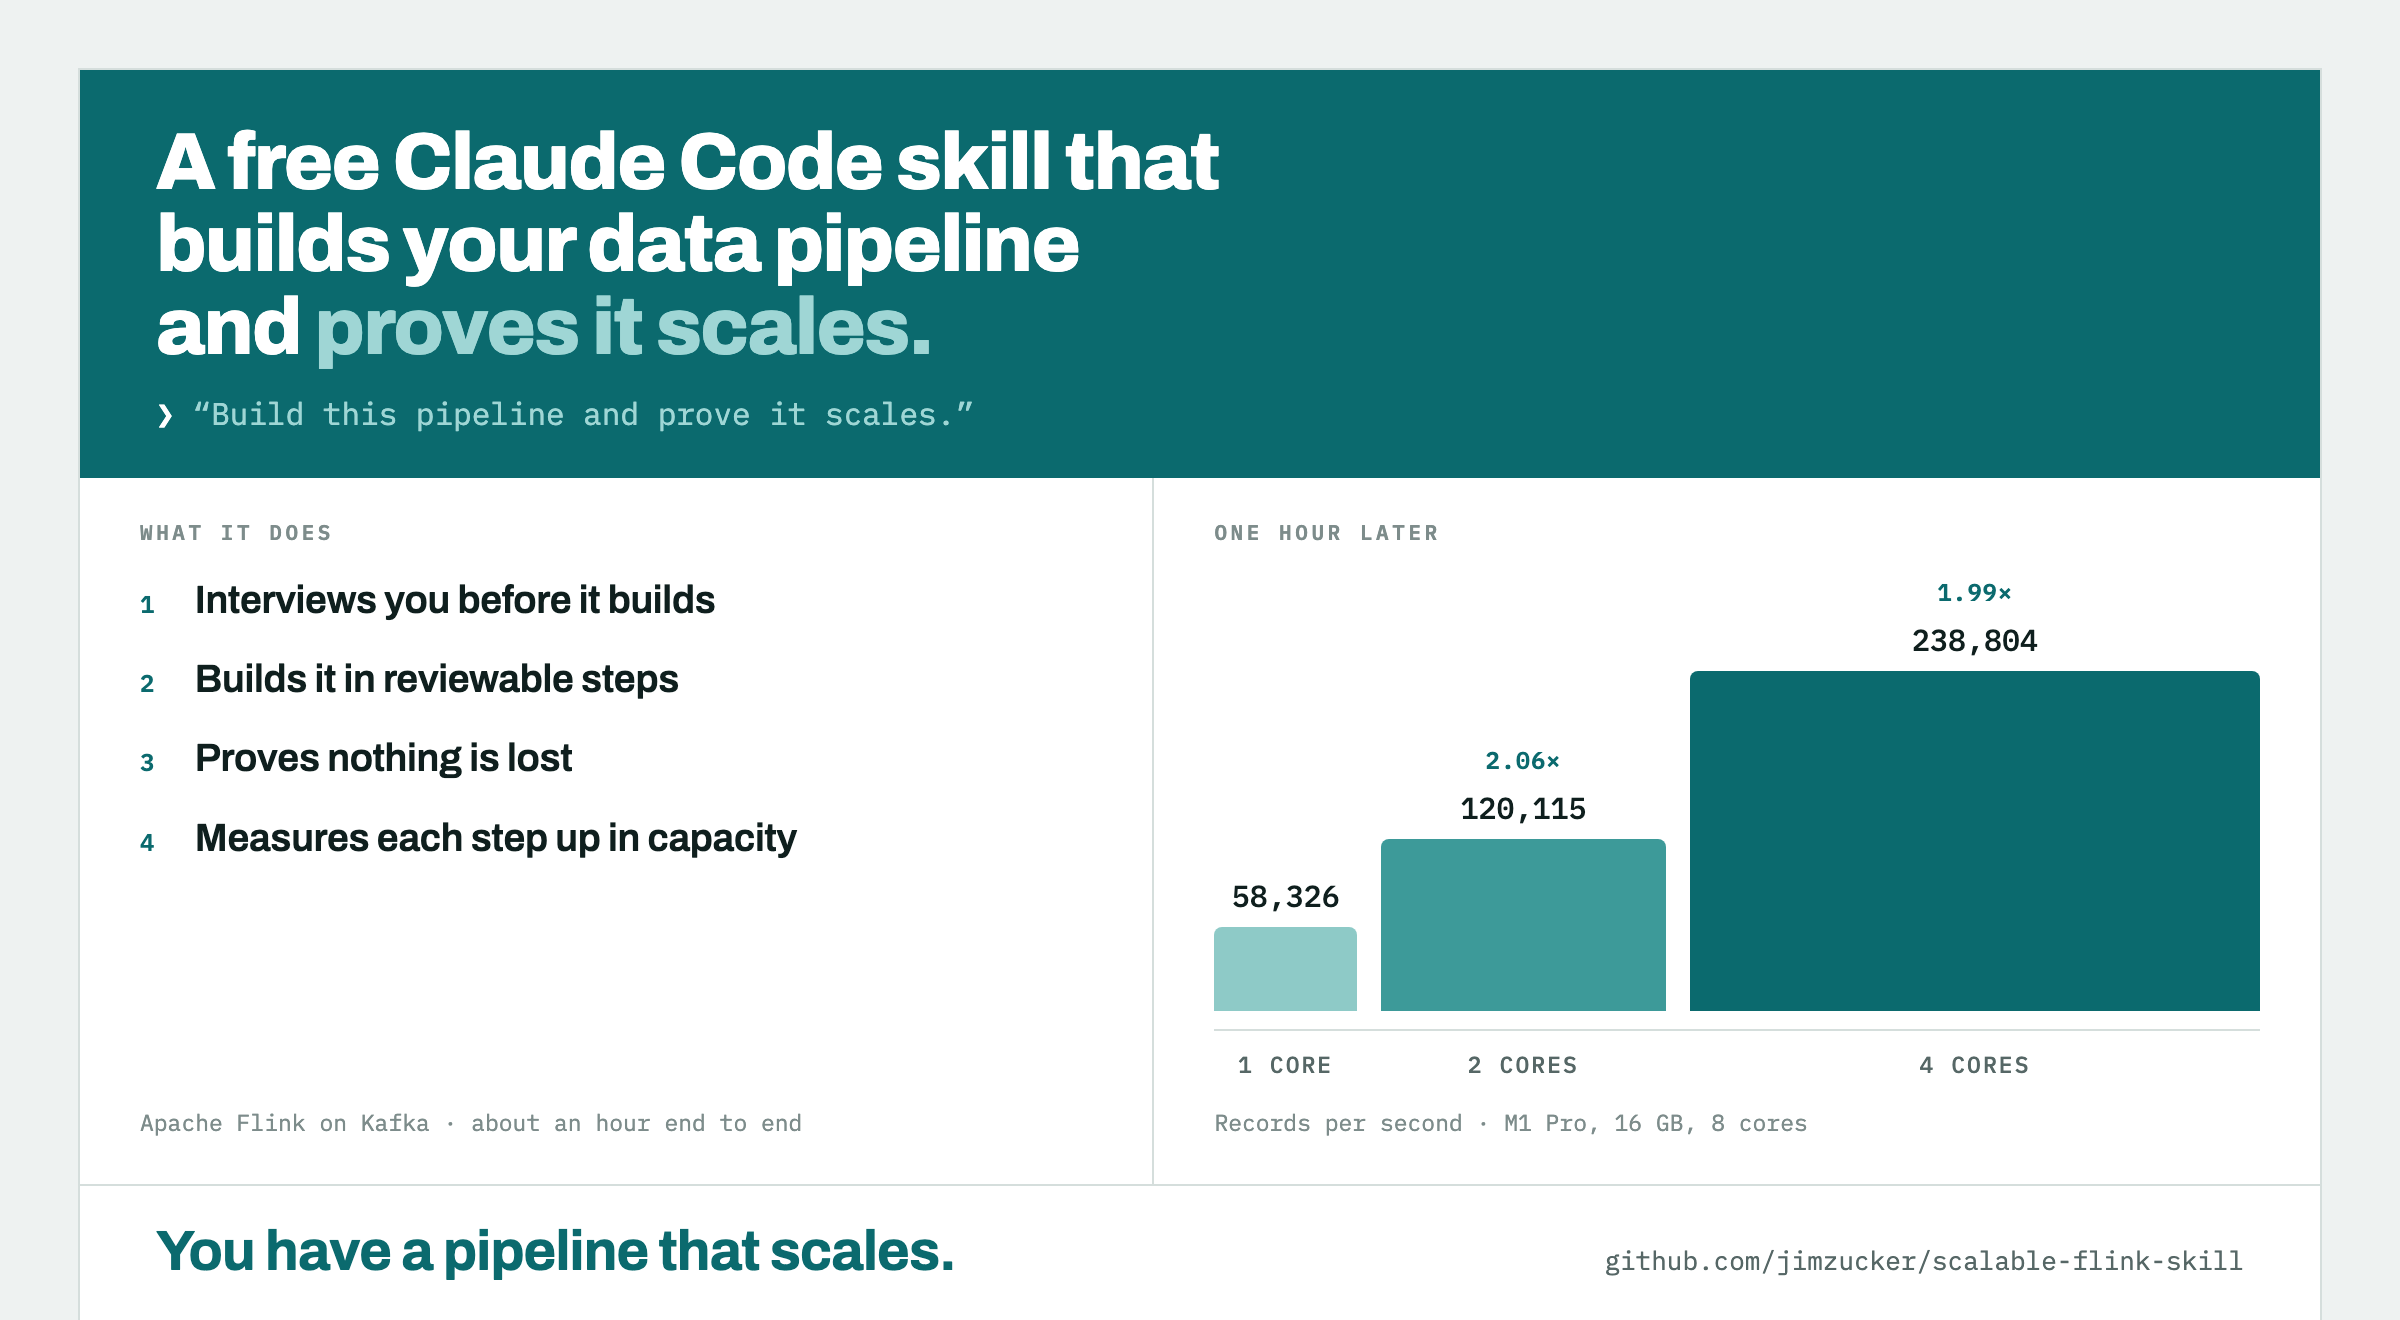
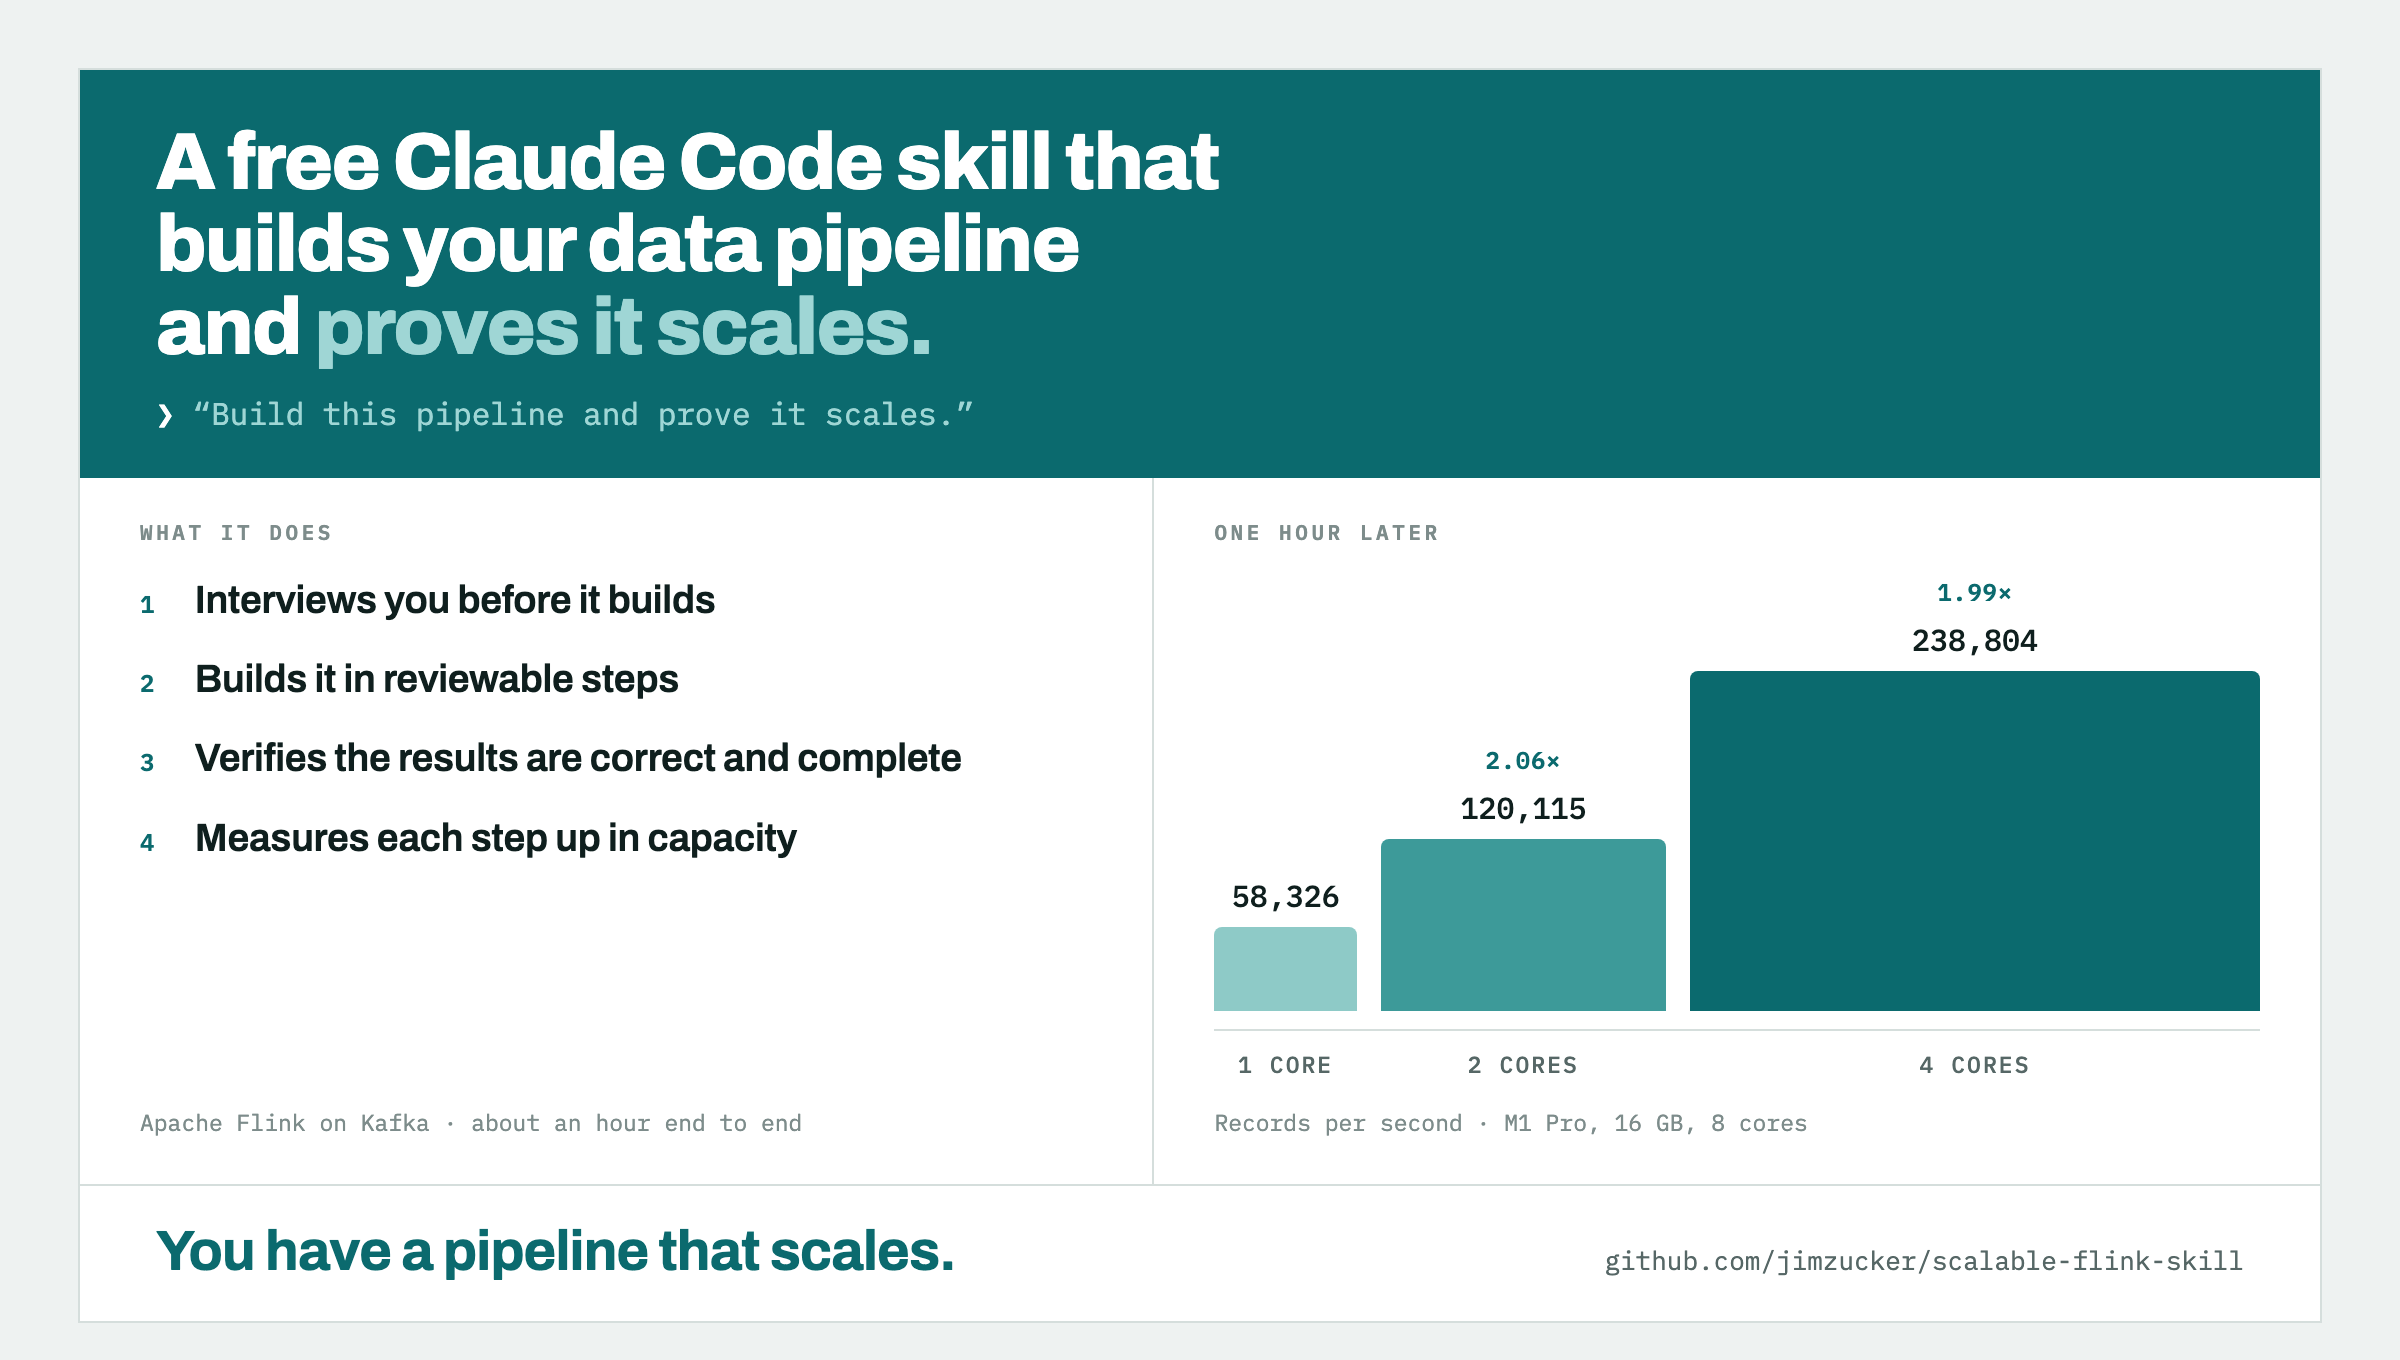
card: step 3 says what it checks
Matches flink-training's copy.

diff --git a/docs/card.html b/docs/card.html
@@ -217,7 +217,7 @@
       <div class="steps">
         <div class="step"><span class="n">1</span><span class="t">Interviews you before it builds</span></div>
         <div class="step"><span class="n">2</span><span class="t">Builds it in reviewable steps</span></div>
-        <div class="step"><span class="n">3</span><span class="t">Proves nothing is lost</span></div>
+        <div class="step"><span class="n">3</span><span class="t">Verifies the results are correct and complete</span></div>
         <div class="step"><span class="n">4</span><span class="t">Measures each step up in capacity</span></div>
       </div>
       <p class="spec">Apache Flink on Kafka &middot; about an hour end to end</p>
